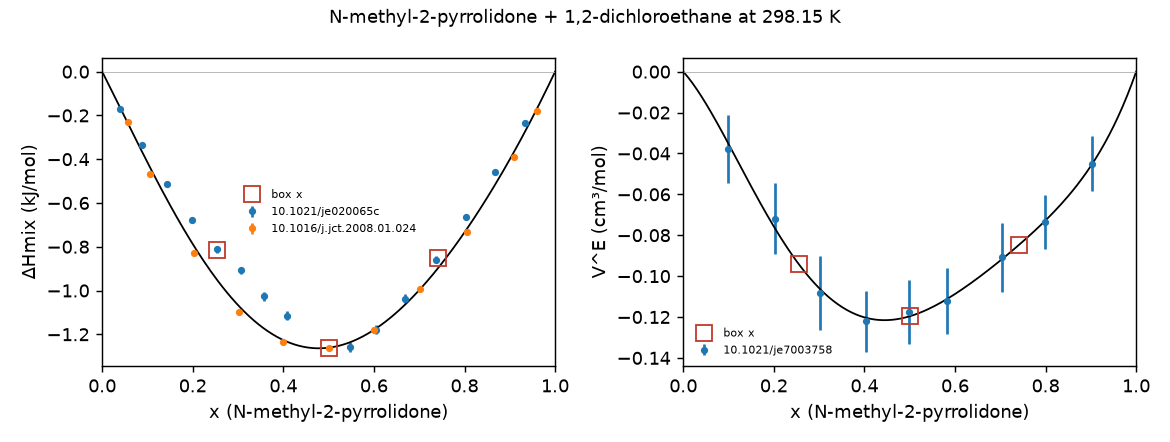
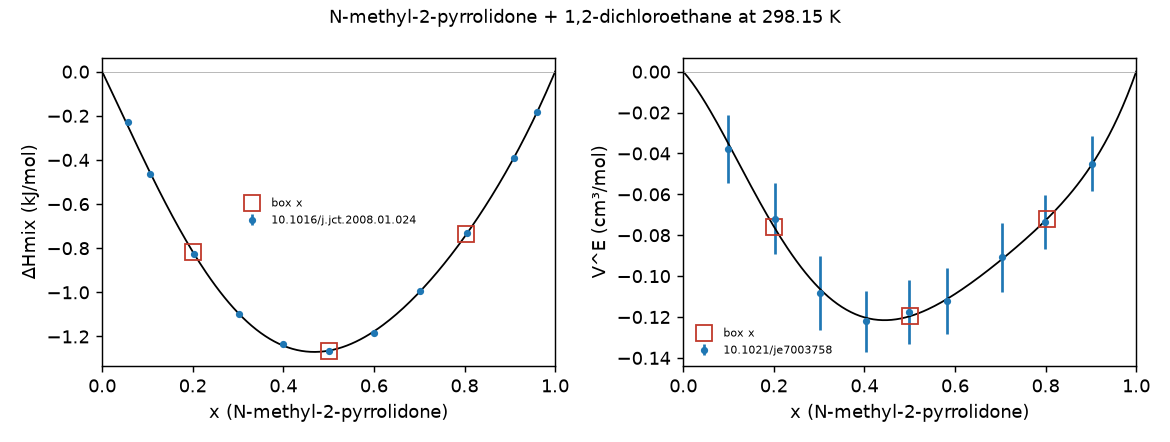
Explain keeping DCE and adjust data used

diff --git a/src/liquid_mixtures_inputs/summarise_sage.py b/src/liquid_mixtures_inputs/summarise_sage.py
@@ -52,6 +52,9 @@ START_T = 4.0  # |t| above which replicate 0 is reported as start-dependent
 # uses openff-gnn-am1bcc-0.1.0-rc.3 where we use 1.0.0.
 PUBLISHED_FF = "openff-2.2.1-ashgc"
 PUBLISHED_X_TOLERANCE = 0.02
+# Systems whose σ_Sage is set to the floor: their replicate spread comes from a
+# Sage artefact that a model need not share (see the report's last section).
+SIGMA_SAGE_AT_FLOOR = {"nmp_dichloroethane"}
 # Thresholds for the "systems to inspect" summary
 SIZE_GAP = {"hmix": 0.15, "density": 0.002}  # kJ/mol, g/mL
 EARLY_SHIFT = 0.005  # g/mL
@@ -211,6 +214,8 @@ def pooled_sigma(points: pd.DataFrame, n_replicates: int) -> pd.DataFrame:
     """
     Replicate SD per point, pooled per system and floored at the median.
 
+    Systems in ``SIGMA_SAGE_AT_FLOOR`` get the floor itself.
+
     Parameters
     ----------
     points
@@ -246,9 +251,9 @@ def pooled_sigma(points: pd.DataFrame, n_replicates: int) -> pd.DataFrame:
             lambda s: float(np.sqrt(np.nanmean(s**2)))
         )
         floor = float(np.nanmedian(pooled))
-        summary[f"sigma_sage_{prop}"] = (
-            summary.system_id.map(pooled).clip(lower=floor).round(6)
-        )
+        sigma = summary.system_id.map(pooled).clip(lower=floor)
+        sigma[summary.system_id.isin(SIGMA_SAGE_AT_FLOOR)] = floor
+        summary[f"sigma_sage_{prop}"] = sigma.round(6)
         summary[f"sigma_ref_{prop}"] = np.sqrt(
             summary[f"sigma_sage_{prop}"] ** 2
             + summary[f"{prop}_exp_sigma"].fillna(0.0) ** 2
@@ -1298,7 +1303,10 @@ def write_report(out: Path, header, runs, summary, finite, flags, start) -> None
         "per-mixture weight: without the floor, the mixtures where Sage happens to "
         "sample most quietly would dominate MAZE, although an MLIP's noise there "
         "need not be as small. With the floor, mixtures are weighted roughly "
-        "evenly and MAZE stays close to the MAE divided by a single σ.",
+        "evenly and MAZE stays close to the MAE divided by a single σ. "
+        "Exception: σ_Sage of "
+        f"{', '.join(sorted(SIGMA_SAGE_AT_FLOOR))} is set to the floor, as its "
+        "Sage spread comes from a force-field artefact (see the last section).",
         "",
         "![replicate spread](figures/replicate_spread.png)",
         "",
@@ -1391,6 +1399,27 @@ def write_report(out: Path, header, runs, summary, finite, flags, start) -> None
         "",
         "Plots: `figures/convergence/<box>.png`, `figures/systems/<system>.png` and "
         "`figures/replicates/<box>.png` (flagged boxes only).",
+        "",
+        "## Why NMP + 1,2-dichloroethane was kept",
+        "",
+        "In Sage the Cl-C-C-Cl torsion of 1,2-dichloroethane (DCE) relaxes "
+        "slowly. In the earlier x = 0.254 and 0.740 boxes, only about 5 % of DCE "
+        "molecules switched between trans and gauche from one 100 ps frame to the "
+        "next (about 50 % if uncorrelated), a relaxation time of about 0.9 ns. With "
+        "20 to 30 DCE molecules in the DCE-poor box, a 2 ns run samples this "
+        "poorly, so the replicates scatter more than their within-run errors. The "
+        "cause is Sage's barrier. In relaxed gas-phase scans (below; energies "
+        "relative to ±165°), the gauche/trans energy gap agrees with the "
+        "MACE-OFF (M) reference, but the trans→gauche barrier is about 6 kJ/mol "
+        "higher (24.4 vs 18.2 kJ/mol above trans; Sage 2.3.0 is 1 kJ/mol higher "
+        "still). That makes Sage's isomerisation roughly 12× too slow. A model "
+        "with a reference-like barrier should relax in about 70 ps, inside the "
+        f"{EQUILIBRATION_PS:.0f} ps equilibration, and sample many flips per run, "
+        "so the system is a fair test for MLIPs and was kept. Its σ_Sage is set to "
+        "the floor (see the MAZE denominator section) so that Sage's slow sampling "
+        "does not loosen the MAZE denominator.",
+        "",
+        "![DCE torsion scan](figures/dce_torsion_scan.png)",
     ]
     (out / "sage_report.md").write_text("\n".join(lines) + "\n")
 

diff --git a/tests/test_summarise_sage.py b/tests/test_summarise_sage.py
@@ -12,6 +12,7 @@ from liquid_mixtures_inputs.summarise_sage import (
     SIZE_GAP,
     finite_size_check,
     mixture_points,
+    pooled_sigma,
     within_between,
 )
 from ml_peg.analysis.utils.timeseries import estimate_mean
@@ -252,3 +253,44 @@ def test_finite_size_check_corrects_composition_offset():
     assert finite[finite.prop == "hmix"]["diff"].abs().max() < 5e-3
     raw_gap = (density.ours - density.published_nearest).abs().max()
     assert raw_gap > SIZE_GAP["density"]
+
+
+def test_pooled_sigma_floor_exception():
+    """Listed systems get the floor even when their own spread is larger."""
+    rng = np.random.default_rng(0)
+    rows = []
+    for system_id, scale in (
+        ("quiet", 0.05),
+        ("noisy", 0.1),
+        ("nmp_dichloroethane", 0.5),
+    ):
+        for replicate in range(5):
+            value = scale * rng.standard_normal()
+            rows.append(
+                {
+                    "system_id": system_id,
+                    "box_id": f"{system_id}_x500",
+                    "x": 0.5,
+                    "replicate": replicate,
+                    "hmix": value,
+                    "hmix_sigma_run": 0.01,
+                    "density": 1.0 + value / 100,
+                    "vex": 0.0,
+                    "hmix_exp": 0.0,
+                    "hmix_exp_sigma": 0.0,
+                    "density_exp": 1.0,
+                    "density_exp_sigma": 0.0,
+                    "vex_exp": 0.0,
+                }
+            )
+    summary = pooled_sigma(pd.DataFrame(rows), 5).set_index("system_id")
+    for prop in ("hmix", "density"):
+        sd = summary[f"{prop}_sd"]
+        floor = float(np.median(sd))
+        assert summary.loc["nmp_dichloroethane", f"sigma_sage_{prop}"] == (
+            pytest.approx(floor, abs=1e-6)
+        )
+        assert sd["nmp_dichloroethane"] > floor
+        assert summary.loc["quiet", f"sigma_sage_{prop}"] == pytest.approx(
+            floor, abs=1e-6
+        )

diff --git a/src/liquid_mixtures_inputs/select_systems.py b/src/liquid_mixtures_inputs/select_systems.py
@@ -981,6 +981,9 @@ def build_system(
     )
 
     hmix = sorted((p for p in mixture if p.prop == "hmix"), key=lambda p: p.x)
+    # Restrict ΔHmix to chosen papers where the sources disagree.
+    if spec.get("hmix_dois"):
+        hmix = [p for p in hmix if p.doi in spec["hmix_dois"]]
     all_dens = sorted((p for p in mixture if p.prop == "density"), key=lambda p: p.x)
     dens = [p for p in all_dens if p.sigma is None or p.sigma <= MAX_DENSITY_SIGMA]
     noisy_density = Counter(p.doi for p in all_dens if p not in dens)
@@ -1057,9 +1060,10 @@ def build_system(
     hmix_fit = fit(hmix, 1e-3)
     vex_fit = fit(vex, 1e-3)
 
-    # Target compositions: measured enthalpy points nearest 0.25, 0.5 and 0.75.
+    # Target compositions: measured enthalpy points nearest 0.25, 0.5 and 0.75,
+    # unless the system sets its own.
     targets = []
-    for goal in (0.25, 0.5, 0.75):
+    for goal in spec.get("target_x", (0.25, 0.5, 0.75)):
         if hmix:
             nearest = min(hmix, key=lambda p: abs(p.x - goal))
             if abs(nearest.x - goal) <= 0.1 and nearest not in targets:

diff --git a/selection/report.md b/selection/report.md
@@ -85,7 +85,7 @@ The H^E-linearity test flags systems whose enthalpies are consistent with a stra
 | 1 | pyrrole + pyridine | 298.15 | -1.77 / -2.65 / -1.62 | -0.00 / 0.07 / 0.10 | pass | N-H···N hydrogen bond between an aromatic donor and acceptor |
 | 2 | methanol + water | 298.15 | -0.80 / -0.78 / -0.58 | -0.62 / -1.00 / -0.81 | exception. Fails: composition mismatch; missing pure density with uncertainty. The rc2 density and ΔHmix compositions differ by up to \|Δx\| = 0.06 (limit 0.05), and no data set gives water's pure density with an uncertainty. Kept because it is the aqueous calibration system (smallest Sage repeat spread in the pool) and both failures are artefacts of the screening data: the full ThermoML isotherms have a density within \|Δx\| ≤ 0.002 of every box composition, and water's pure density comes from [IAPWS-95](https://doi.org/10.1063/1.1461829). | alcohol-water hydrogen-bond network |
 | 3 | water + pyridine | 303.15 | -1.13 / -1.28 / -1.10 | – / – / – | exception. Fails: not in the screened pool. Not in the Sage training or validation sets; the data come from the recommended fast-converging list. Screened, it would fail the entry filter (3 ΔHmix points but no mixture densities) and both no Sage repeat SD filters (no pyridine + water rows in the [rc2 benchmark outputs](https://github.com/openforcefield/ash-sage-rc2/tree/00c9524d38af53725a1a18feb3433f5c191cdb4a/04_benchmark/phys-prop/output)). The ΔHmix data are also at 303.15 K, outside the 297.0–299.5 K window (the [ThermoML record](https://trc.nist.gov/ThermoML/10.1021/je2002495.json) stores 298.15 K, but the [paper's title](https://doi.org/10.1021/je2002495) gives 303.15 K). Kept because it is the only aromatic-water system available. It is scored on ΔHmix only (unless ThermoML provides a 303.15 K mixture density), and our own Sage replicates replace the missing repeat SDs for MAZE. | aromatic nitrogen-water hydrogen bonding |
-| 4 | N-methyl-2-pyrrolidone + 1,2-dichloroethane | 298.15 | -0.82 / -1.26 / -0.85 | -0.09 / -0.12 / -0.08 | exception. Fails: composition mismatch. The 3-point rc2 subsets miss the composition-match limit by a hair (\|Δx\| = 0.0503 vs 0.05). Kept because the full ThermoML isotherms remove the mismatch (largest box \|Δx\| = 0.047), and the system widens the exothermic range and is the only one with chlorine. | tertiary amide with a chloroalkane (C-H···O=C, dipolar) |
+| 4 | N-methyl-2-pyrrolidone + 1,2-dichloroethane | 298.15 | -0.82 / -1.26 / -0.74 | -0.08 / -0.12 / -0.07 | exception. Fails: composition mismatch. The 3-point rc2 subsets miss the composition-match limit by a hair (\|Δx\| = 0.0503 vs 0.05). Kept because the full ThermoML isotherms remove the mismatch (largest box \|Δx\| = 0.006), and the system widens the exothermic range and is the only one with chlorine. | tertiary amide with a chloroalkane (C-H···O=C, dipolar) |
 | 5 | 2-(dimethylamino)ethanol + methanol | 298.15 | -0.80 / -0.87 / -0.53 | -0.90 / -1.05 / -0.57 | pass | amino-alcohol with an alcohol (O-H···N and O-H···O) |
 | 6 | acetone + N-methylaniline | 298.15 | -0.50 / -0.67 / -0.53 | -0.45 / -0.73 / -0.67 | pass | aromatic N-H donor with a ketone acceptor |
 | 7 | methyl pentanoate + octane | 298.15 | 0.77 / 1.05 / 0.79 | 0.50 / 0.62 / 0.47 | pass | dilution of ester dipoles in an alkane |
@@ -131,7 +131,7 @@ V^E diversity was not a selection criterion. Sign at the three box compositions:
 
 Boxes have edge ≥ 25.0 Å, ≥ 100 molecules and ≥ 20 minority molecules, with x within 0.01 of the measured composition. Evaluator, by comparison, uses a fixed total (1000 molecules for Sage), rounds x·N per component and only requires at least one molecule of each, so at the compositions used here its minority counts are about 200 or more.
 
-Mixture boxes: 1144–2470 atoms (median 1495); total 62760 atoms across 39 boxes. Constraint that sets the size: edge 25, total 14.
+Mixture boxes: 1104–2470 atoms (median 1495); total 62744 atoms across 39 boxes. Constraint that sets the size: edge 25, total 14.
 
 | System | x (box) | Molecules a / b | Total | Atoms | Edge (Å) | Set by |
 |---|---|---|---|---|---|---|
@@ -144,9 +144,9 @@ Mixture boxes: 1144–2470 atoms (median 1495); total 62760 atoms across 39 boxe
 | water + pyridine | 0.296 | 45 / 107 | 152 | 1312 | 25.1 | edge |
 | water + pyridine | 0.495 | 94 / 96 | 190 | 1338 | 25.0 | edge |
 | water + pyridine | 0.700 | 180 / 77 | 257 | 1387 | 25.0 | edge |
-| N-methyl-2-pyrrolidone + 1,2-dichloroethane | 0.254 | 29 / 85 | 114 | 1144 | 25.0 | edge |
+| N-methyl-2-pyrrolidone + 1,2-dichloroethane | 0.200 | 23 / 92 | 115 | 1104 | 25.0 | edge |
 | N-methyl-2-pyrrolidone + 1,2-dichloroethane | 0.500 | 54 / 54 | 108 | 1296 | 25.1 | edge |
-| N-methyl-2-pyrrolidone + 1,2-dichloroethane | 0.740 | 77 / 27 | 104 | 1448 | 25.1 | edge |
+| N-methyl-2-pyrrolidone + 1,2-dichloroethane | 0.804 | 82 / 20 | 102 | 1472 | 25.1 | edge |
 | 2-(dimethylamino)ethanol + methanol | 0.247 | 41 / 125 | 166 | 1447 | 25.0 | edge |
 | 2-(dimethylamino)ethanol + methanol | 0.500 | 65 / 65 | 130 | 1495 | 25.1 | edge |
 | 2-(dimethylamino)ethanol + methanol | 0.750 | 81 / 27 | 108 | 1539 | 25.0 | edge |
@@ -288,17 +288,17 @@ Many ml-peg liquid_densities references appear to be measured about 5 K below th
 - **Interaction:** tertiary amide with a chloroalkane (C-H···O=C, dipolar)
 - **Rationale:** Widens the exothermic range (-1.26 kJ/mol) and covers chlorine. Both pure densities are already in [ml-peg](https://github.com/ddmms/ml-peg/tree/8e52132f661fb3d46d5a245aa52b1d940ba22504/ml_peg/calcs/molecular_dynamics/liquid_densities).
 - **Miscibility:** Single liquid phase across the whole composition range in the source papers (see the single-phase evidence below).
-- **Filter exception:** The 3-point rc2 subsets miss the composition-match limit by a hair (|Δx| = 0.0503 vs 0.05). Kept because the full ThermoML isotherms remove the mismatch (largest box |Δx| = 0.047), and the system widens the exothermic range and is the only one with chlorine.
+- **Filter exception:** The 3-point rc2 subsets miss the composition-match limit by a hair (|Δx| = 0.0503 vs 0.05). Kept because the full ThermoML isotherms remove the mismatch (largest box |Δx| = 0.006), and the system widens the exothermic range and is the only one with chlorine.
 - **Failed filters:** composition mismatch
-- **ΔHmix data:** 26 points from 10.1021/je020065c (15), 10.1016/j.jct.2008.01.024 (11)
+- **ΔHmix data:** 11 points from 10.1016/j.jct.2008.01.024 (11)
 - **Density data:** 9 points from 10.1021/je7003758 (9)
-- **Single-phase evidence:** ΔHmix measured at 26 compositions spanning x = 0.04–0.96; straight-line fit reduced χ² = 714 (a two-phase region would give ≈ 1).
+- **Single-phase evidence:** ΔHmix measured at 11 compositions spanning x = 0.06–0.96; straight-line fit reduced χ² = 790 (a two-phase region would give ≈ 1).
 
 | x box | n_a / n_b | atoms | edge (Å) | ΔHmix ± σ (kJ/mol) | ρ ± σ (g/mL) | V^E (cm³/mol) |
 |---|---|---|---|---|---|---|
-| 0.254 | 29 / 85 | 1144 | 25.0 | -0.815 ± 0.0152 | 1.1831 ± 0.00025 | -0.094 |
+| 0.200 | 23 / 92 | 1104 | 25.0 | -0.817 ± 0.0050 | 1.1960 ± 0.00025 | -0.076 |
 | 0.500 | 54 / 54 | 1296 | 25.1 | -1.264 ± 0.0055 | 1.1278 ± 0.00020 | -0.120 |
-| 0.740 | 77 / 27 | 1448 | 25.1 | -0.849 ± 0.0160 | 1.0777 ± 0.00020 | -0.085 |
+| 0.804 | 82 / 20 | 1472 | 25.1 | -0.735 ± 0.0045 | 1.0652 ± 0.00015 | -0.072 |
 
 ![nmp_dichloroethane](figures/nmp_dichloroethane.png)
 

diff --git a/DECISIONS.md b/DECISIONS.md
@@ -100,6 +100,9 @@ Known gaps, accepted and stated in the report: there is no N-H (secondary) amide
 | 2026-10-22 | One estimator for Sage and the MLIPs (ml-peg's `timeseries.py`, applied after 1 ps binning), replacing pymbar. Sage is shown as a plot trace, not a table row. | User (recommended options) | Sage and MLIP uncertainties become directly comparable. |
 | 2026-10-22 | Changing the estimator to close the within- vs between-run gap (within-run sem about 20 to 25 % low on average) is left to the user. | User | Not yet decided. |
 | 2026-10-23 | Drop the 1 ps binning: Chodera is applied to every logged sample. | User ("Skip the binning for the sake of simplicity") | Over the 320 Sage runs, the raw sem / binned sem has a median of 1.00 (h and density). Only 5 % (h) and 2 % (density) of runs are more than 10 % lower, worst 0.67. The pooled replicate SD / within-run sem changes from 1.24 to 1.26 (h) and 1.21 to 1.22 (density). Not checked at the 10 fs MLIP logging interval. |
+| 2026-10-23 | Keep NMP + 1,2-dichloroethane. | User ("keep it") | Its slow conformer sampling is a Sage artefact. In relaxed gas-phase scans the Sage 2.2.1 Cl-C-C-Cl trans→gauche barrier is ~6 kJ/mol above the MACE-OFF (M) reference (24.4 vs 18.2 kJ/mol), while the gauche/trans gap agrees. Sage flips are therefore ~12× too slow (relaxation ~0.9 ns, measured from 100 ps frames), and a reference-like model should relax in ~70 ps, inside the 0.2 ns equilibration. The scan is shown in `sage_report.md`. |
+| 2026-10-23 | NMP + DCE ΔHmix from 10.1016/j.jct.2008.01.024 only (`hmix_dois`), at its points nearest x = 0.2, 0.5, 0.8 (`target_x`; boxes x = 0.200, 0.500, 0.804, replacing 0.254 and 0.740). New boxes built and Sage rerun; the old ones are in `data/superseded/nmp_dce_x254_x740/`. | User | The two papers disagree away from equimolar (10.1021/je020065c is 0.15 kJ/mol less exothermic at x ≈ 0.2); j.jct.2008.01.024 matches the fit better and looks more reliable. |
+| 2026-10-23 | σ_Sage of NMP + DCE set to the median floor for ΔHmix and density (`SIGMA_SAGE_AT_FLOOR`). | User | Its replicate spread comes from Sage's slow torsion and would loosen the MAZE denominator for a model that does not share it. |
 | 2026-10-23 | Significance threshold `FLAG_P` raised from 0.01 to 0.05 (Holm-adjusted for per-box tests, Bonferroni over the 4 pooled tests). The hard-coded 0.01 in the within/between counts, plot and inspection list now follow `FLAG_P`. | User ("make that change", recommended option) | 0.05 family-wise is the conventional level and still conservative after Holm. NMP + DCE x=0.74 (h) becomes Holm-significant; the pooled conclusions are unchanged. |
 
 ## 8. Open questions
@@ -110,4 +113,5 @@ Known gaps, accepted and stated in the report: there is no N-H (secondary) amide
     - keep both and add a conformer-population diagnostic (dihedral populations and transition counts from the saved frames), flagging unconverged boxes;
     - or drop NMP + DCE and DMAE + methanol.
   - THP + ethanol is not affected: its equilibrium is essentially all chair.
+  - **Resolved for DCE (2026-10-23):** NMP + DCE is kept (section 7). DMAE + methanol is still open.
 - **Fluorinated systems** (section 5): not decided either way.
